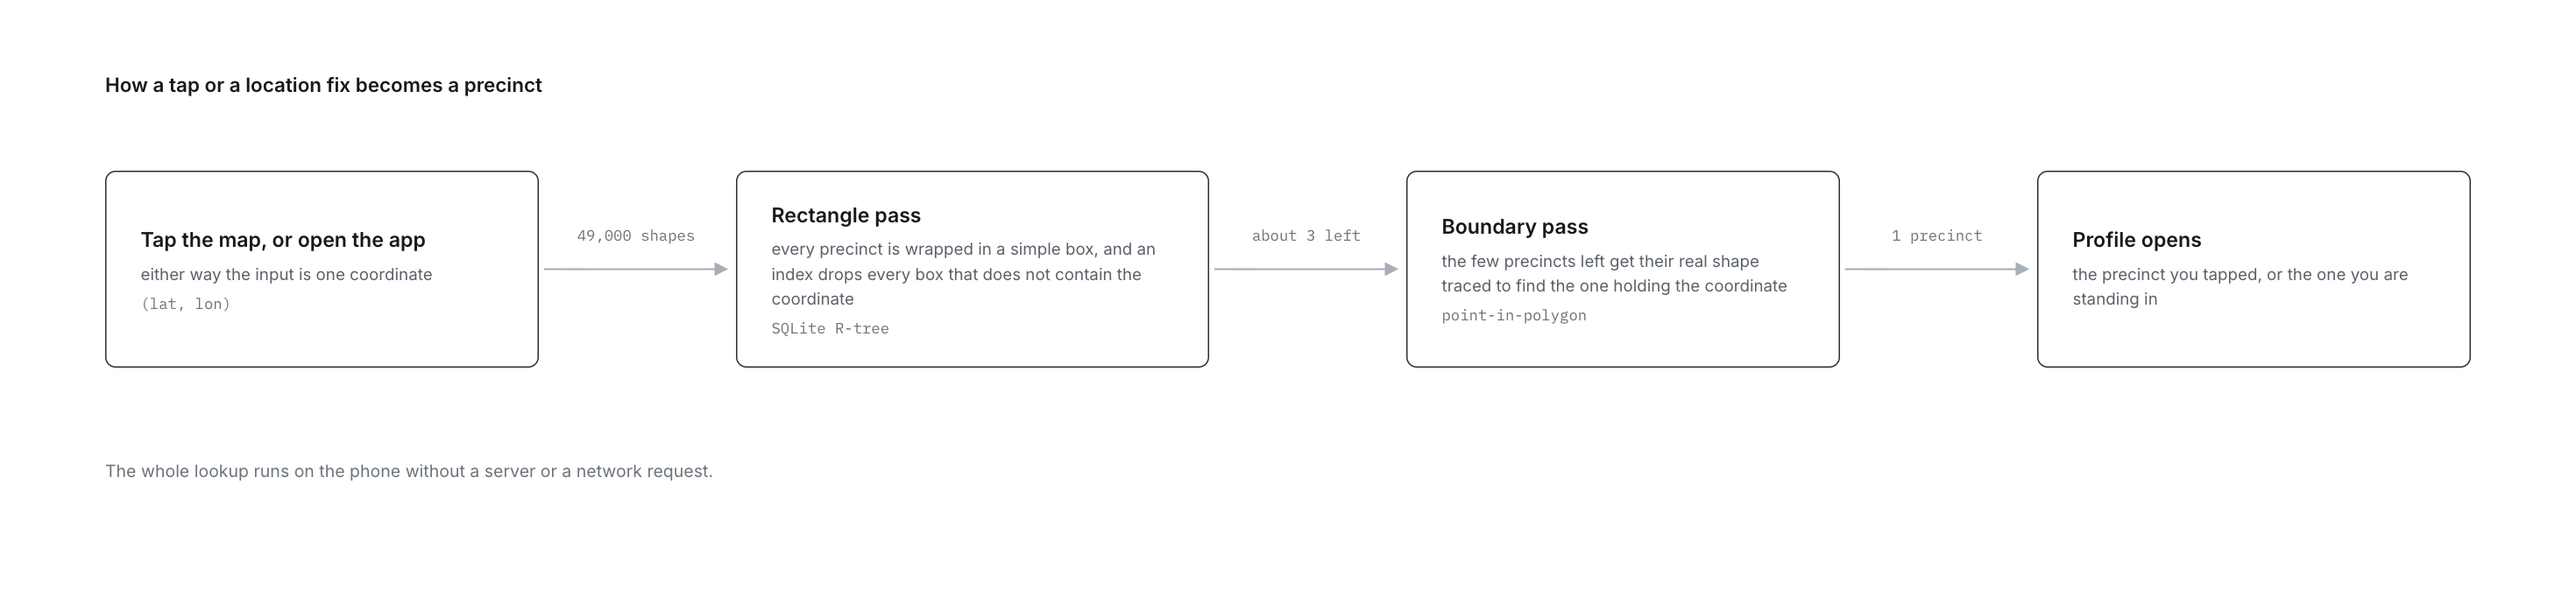
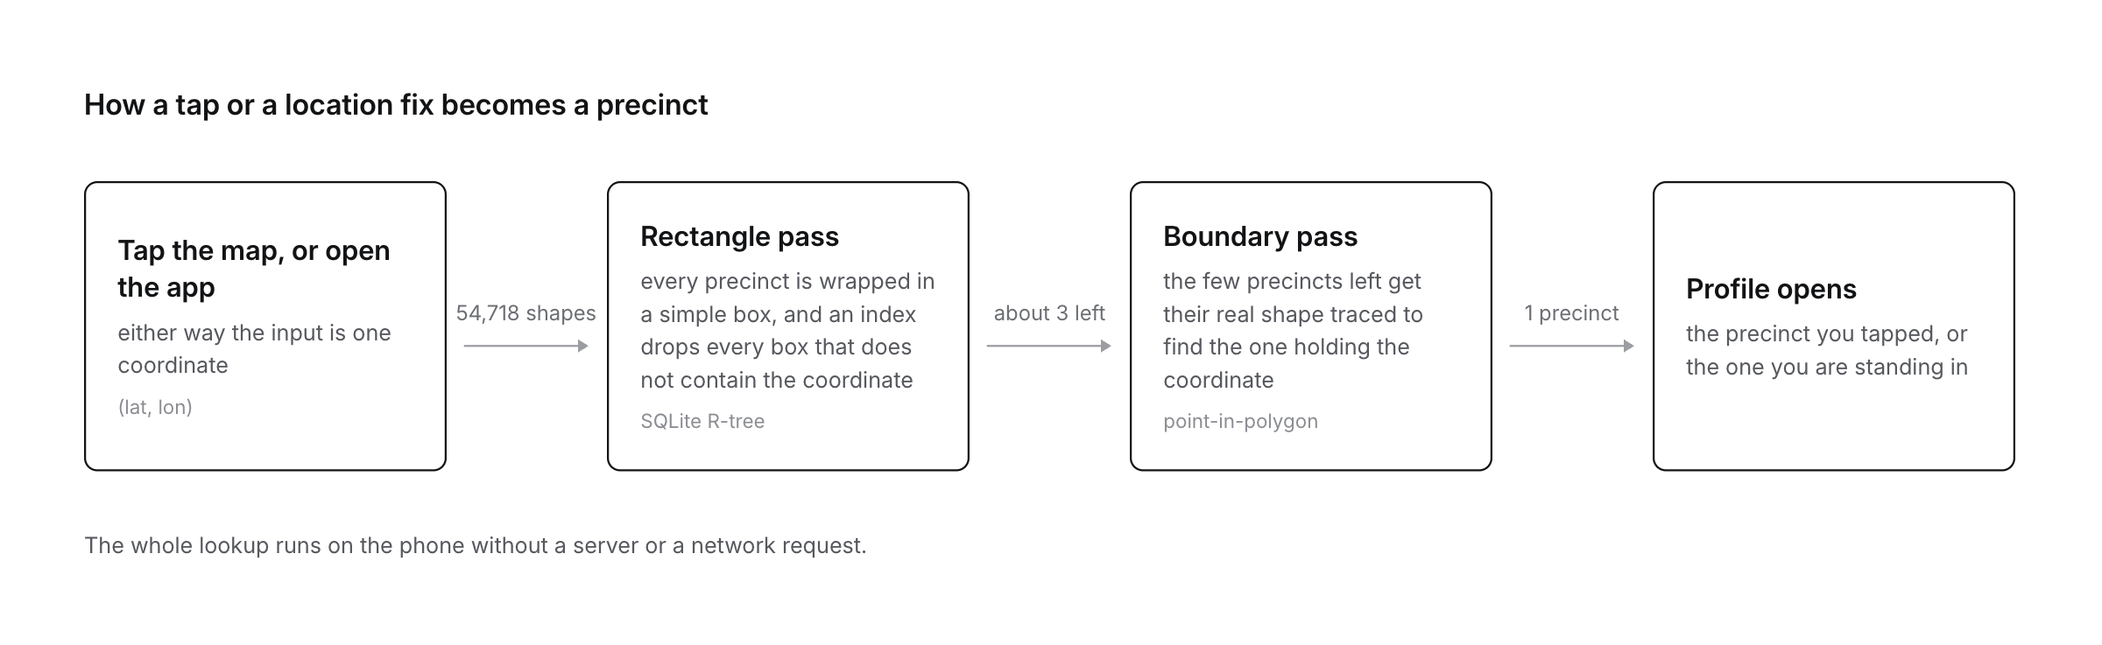
trim precinctly page and redo the boards

diff --git a/src/lab/projectDetails.js b/src/lab/projectDetails.js
@@ -9,8 +9,8 @@ export const projectDetails = {
     ],
     highlights: [
       { title: 'Why I built it', text: 'A friend was moving to New York and wanted to know the neighborhoods. The data existed but only in datasets and desktop tools, so I built the app version.' },
-      { title: 'Finding a precinct', text: '49,000 precincts across four states are stored on the device. An R-tree index narrows your location, then a point-in-polygon test finds your precinct with no network request.' },
-      { title: 'Learning iOS', text: 'This was my first iOS app, so almost everything was new: SwiftUI, SQLite, and how to make a lookup across 49,000 precinct shapes feel instant using a spatial index.' },
+      { title: 'Finding a precinct', text: '54,718 precincts across six states and the DC area are stored on the device. An R-tree index narrows your location, then a point-in-polygon test finds your precinct with no network request.' },
+      { title: 'Learning iOS', text: 'This was my first iOS app, so almost everything was new: SwiftUI, SQLite, and how to make a lookup across 54,718 precinct shapes feel instant using a spatial index.' },
     ],
     sections: [
       {
@@ -29,56 +29,51 @@ export const projectDetails = {
       {
         heading: 'The design system',
         body: [
-          'Version 1.0 stayed close to standard iOS, with New York serif headers over SF Pro and a lean scale that faded from blue through purple to red. For version 1.1 I rebuilt the design from scratch. I based it on the results page a city paper prints the morning after an election, with a heavy figure for each race, a plain label under it, and thin rules between the races.',
-          'The whole app now uses one typeface, Libre Franklin, a revival of Franklin Gothic, which American newspapers used for their headlines. I use it in every weight and let weight and size set the hierarchy, so the lean figure is the heaviest thing on the screen. Color is reserved for party. There are five fixed steps, from solid blue through soft blue, gray and soft red to solid red. Everything else is ink, apart from green and orange for the money and education comparisons.',
-          'I also dropped the gray cards and capsules. Every section is now a title with one rule under it. Small controls are rounded rectangles with 8 point corners, buttons use 12 points, and sheets close with an X.',
-          'The old icon was a red map pin on a beige street map. The new one is a heavy white lowercase p on flat navy, and the bottom edge of the icon cuts off the tail of the p. It has light, dark, tinted and clear versions, so it matches whichever Home Screen style you use.',
+          'I based the design on the results page a city paper prints the morning after an election, with a heavy figure for each place, a plain label under it, and a rule between sections.',
+          'The app uses one typeface, Libre Franklin, in every weight. Weight and size set the hierarchy, so the lean figure is the heaviest thing on screen.',
+          'Color only marks party. Charts sort precincts into five fixed steps, from solid blue through gray to solid red. Everything else is ink, apart from green and orange for the money and education differences.',
+          'Each section is a title over one ink rule, and spacing groups the rows under it. Chips use 8 point corners, buttons use 12, and sheets close with an X.',
+          'The icon is a heavy white lowercase p on navy, and the bottom edge cuts off its tail.',
         ],
-        figure: { component: 'precinct-design' },
+        image: {
+          src: '/projects/precinctly/design-system.png',
+          alt: 'Design system board: the Libre Franklin type scale, the app icon, the five party colors with their hex values, and specs for the card header, section title, chips and buttons',
+        },
       },
       {
         heading: 'From his data to a public app',
         body: 'The first version ran on my friend\'s private precinct shapes plus public Census data, which was enough to prove the idea. I could not ship his work files, so he helped me find the public versions of the same shapes and I rebuilt on those. I did all the building solo, with him as the client. I would build for a weekend, show him, and adjust from his feedback. A working version took about a week. The rest of the two months went to UI, speed, and where the data should live, since this was my first app and all of that was new to me. I also designed the app\'s interface myself and built the landing page for it. He was moving in August, so I had a real deadline.',
       },
       {
-        heading: 'Making 49,000 precincts fast on a phone',
+        heading: 'Making 54,718 precincts fast on a phone',
         body: [
-          'Everything is stored on the device, so a lookup never talks to a server. The catch is that finding your precinct means checking your location against 49,000 polygons, and precinct boundaries are detailed shapes with hundreds of corners each. Checking them one by one was too slow for an app that should answer the moment you open it. This was also my first time using SQLite, so I had to learn how a database handles shapes at all.',
-          'The fix is a two-step lookup. First, every precinct gets a plain rectangle drawn around its shape. Checking whether a point sits inside a rectangle is nearly free, so an index of those rectangles, called an R-tree, lets the database instantly discard every precinct whose rectangle does not contain you. That cuts 49,000 candidates down to a handful. Second, since rectangles overlap near borders, the app traces the real boundary of each remaining precinct to see which one actually contains your point.',
-          'The expensive boundary check ends up running on a few shapes instead of 49,000, so a lookup feels instant. I started with California, New York, Texas, and Massachusetts, the places my friend and I actually spend time. More states mostly means finding public data and paying for it in app size.',
+          'Everything is stored on the device, so a lookup never talks to a server. The catch is that finding your precinct means checking your location against 54,718 polygons, and precinct boundaries are detailed shapes with hundreds of corners each. Checking them one by one was too slow for an app that should answer the moment you open it. This was also my first time using SQLite, so I had to learn how a database handles shapes at all.',
+          'The fix is a two-step lookup. First, every precinct gets a plain rectangle drawn around its shape. Checking whether a point sits inside a rectangle is nearly free, so an index of those rectangles, called an R-tree, lets the database instantly discard every precinct whose rectangle does not contain you. That cuts 54,718 candidates down to a handful. Second, since rectangles overlap near borders, the app traces the real boundary of each remaining precinct to see which one actually contains your point.',
+          'The expensive boundary check ends up running on a few shapes instead of 54,718, so a lookup feels instant. I started with California, New York, Texas, and Massachusetts, the places my friend and I actually spend time. Since then I have added Colorado, Oregon, and the DC area, meaning the District, Montgomery and Prince George\'s Counties in Maryland, and Northern Virginia. More states mostly means finding public data and paying for it in app size.',
         ],
         image: {
           src: '/projects/precinctly/lookup.png',
-          alt: 'Diagram of the precinct lookup: 49,000 bounding boxes narrow to 3 candidates, then one exact boundary test finds your precinct',
+          alt: 'Diagram of the precinct lookup: 54,718 bounding boxes narrow to 3 candidates, then one exact boundary test finds your precinct',
           afterParagraph: 1,
         },
       },
       {
         heading: 'Edge cases',
         body: [
-          'Search is where the messy inputs show up. An address can sit outside the four covered states, and a GPS fix can land where no precinct exists, so the app checks for both and tells you which states it covers. When precise location is off, iOS only shares a rough location that could land in the wrong precinct, so the app asks for one-time full accuracy and the widget falls back to its cached precinct.',
+          'Search is where the messy inputs show up. An address can sit outside the covered areas, and a GPS fix can land where no precinct exists, so the app checks for both and tells you which areas it covers. When precise location is off, iOS only shares a rough location that could land in the wrong precinct, so the app asks for one-time full accuracy and the widget falls back to its cached precinct.',
           'When a precinct has little or no data, the app says so. If only 40 ballots were cast somewhere, it prints "only 40 votes cast" next to the lean, and missing values show a plain dash. A small test suite checks known locations against the bundled database to catch these cases if they ever break again.',
         ],
       },
       {
         heading: 'Getting the Census data right',
         body: [
-          'The data pipeline joins election returns with Census voting districts, and the Census surprised me twice. Early on the app ranked one precinct the richest in its area, and it took me a while to learn the Census stops counting household income at $250,000. Around 170 precincts sit at that cap reporting the exact same "$250k+", and there is no separating them.',
+          'The data pipeline joins election returns with Census voting districts, and the Census surprised me twice. Early on the app ranked one precinct the richest in its area, and it took me a while to learn the Census stops counting household income at $250,000. Around 440 precincts sit at that cap reporting the exact same "$250k+", and there is no separating them.',
           'The second surprise was race. The Census asks about race and Hispanic origin as two separate questions, so the shares overlap and can add up to well over 100 percent, and the columns I have cannot be forced into one clean total. The app calls both out. Income shows as "$250k+" once it hits the cap, and an info box in the profile explains why the race numbers overlap. The widget has been on my home screen since it started working, and I like seeing it update from time to time.',
         ],
       },
       {
-        heading: 'Rebuilding By the Numbers',
-        body: [
-          'By the Numbers is the screen that compares your precinct with the other precincts in the area. In version 1.1 every measure there is a chart with five bars that sorts the area\'s precincts into groups, and the bar your precinct falls in is marked. That covers lean, how far precincts swung between elections, turnout, the largest group, income, college degrees, age, density, and renters and owners. Tapping a bar lists the precincts in it.',
-          'The precinct card and By the Numbers now share the same four sections: Politics, Who lives here, Money and education, and People and housing. Each stat on the card is a link to its chart.',
-          'I also corrected a few numbers. The swing chart now uses margin points everywhere, so a precinct that went from D+36 to R+10 shows a 46 point swing. When precincts tie for the top spot, the app lists them as a tie.',
-        ],
-        figure: { component: 'precinct-numbers' },
-      },
-      {
         heading: 'What is next',
-        body: 'Precinctly is now available on the App Store. Version 1.1 adds the new design and the rebuilt By the Numbers, plus a tour on first launch that walks you through the real map and its controls. More states are on the list next.',
+        body: 'Precinctly is now available on the App Store. More states are on the list next.',
       },
     ],
   },

diff --git a/src/lab/lab.css b/src/lab/lab.css
@@ -956,86 +956,6 @@
   font-size: 11px;
 }
 
-.precinct-design-steps {
-  display: grid;
-  grid-template-columns: repeat(5, minmax(0, 1fr));
-  gap: 6px;
-  margin-bottom: 18px;
-}
-
-.precinct-design-steps span {
-  display: block;
-  height: 44px;
-}
-
-.precinct-design-steps small {
-  display: block;
-  margin-top: 7px;
-  color: var(--lab-muted);
-  font-size: 11px;
-}
-
-.precinct-design-grid {
-  display: grid;
-  grid-template-columns: minmax(0, 1.75fr) minmax(0, 1fr);
-  gap: 16px;
-  align-items: start;
-}
-
-.precinct-design-main,
-.precinct-design-side {
-  display: grid;
-  gap: 16px;
-}
-
-.lab-project-note-figure .precinct-design-widget {
-  border: 0;
-  border-radius: 0;
-}
-
-.lab-project-note-figure .precinct-design-icon {
-  width: 62%;
-  justify-self: center;
-  border: 0;
-  border-radius: 22.5%;
-}
-
-.precinct-screens-figure {
-  display: grid;
-  grid-template-columns: repeat(3, minmax(0, 1fr));
-  gap: 16px;
-}
-
-.lab-project-note-figure.precinct-screens-figure img {
-  border-radius: 14px;
-}
-
-@media (max-width: 640px) {
-  .precinct-design-grid {
-    grid-template-columns: 1fr;
-  }
-
-  .precinct-design-side {
-    grid-template-columns: minmax(0, 1fr) minmax(0, 1fr);
-    align-items: center;
-  }
-
-  .lab-project-note-figure .precinct-design-icon {
-    width: 78%;
-  }
-
-  .precinct-screens-figure {
-    grid-template-columns: repeat(3, 72%);
-    overflow-x: auto;
-    scroll-snap-type: x mandatory;
-    padding-bottom: 6px;
-  }
-
-  .precinct-screens-figure img {
-    scroll-snap-align: start;
-  }
-}
-
 
 .lab-project-next {
   display: flex;

diff --git a/src/lab/LabProjectPage.jsx b/src/lab/LabProjectPage.jsx
@@ -5,7 +5,6 @@ import usePageTitle from '../usePageTitle.js';
 import { ProjectLinks } from './Lab.jsx';
 import { useLabAccent } from './accentTheme.js';
 import { projectDetails } from './projectDetails.js';
-import { projectFigures } from './precinctFigures.jsx';
 import { CustomCursor, SiteNav } from './SiteChrome.jsx';
 import './lab.css';
 
@@ -94,8 +93,6 @@ export default function LabProjectPage() {
                 {(() => {
                   const paragraphs = Array.isArray(section.body) ? section.body : [section.body];
                   const figureIndex = section.image ? (section.image.afterParagraph ?? paragraphs.length - 1) : -1;
-                  const Figure = section.figure ? projectFigures[section.figure.component] : null;
-                  const customIndex = Figure ? (section.figure.afterParagraph ?? paragraphs.length - 1) : -1;
                   return paragraphs.map((paragraph, index) => (
                     <Fragment key={paragraph}>
                       <p>{paragraph}</p>
@@ -105,7 +102,6 @@ export default function LabProjectPage() {
                           {section.image.caption && <figcaption>{section.image.caption}</figcaption>}
                         </figure>
                       )}
-                      {index === customIndex && <Figure />}
                     </Fragment>
                   ));
                 })()}
